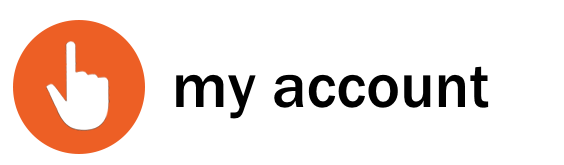
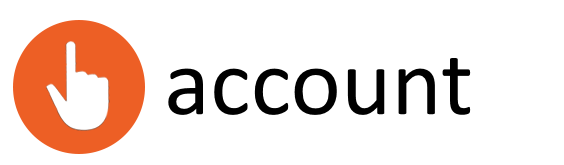
changed to account instead of login

Changed region(s): [[0.2713, 0.3333, 0.8741, 0.7273]]

diff --git a/server.js b/server.js
@@ -45,7 +45,6 @@ MongoClient.connect(url, function(err, database) {
 //this is our root route
 app.get('/', function(req, res) {
   //otherwise perfrom a search to return all the documents in the people collection
-  if(!req.session.loggedin){res.render('pages/flicktionary', {loggedIn: "notLoggedIn"})}
   res.render('pages/flicktionary')
 });
 
@@ -61,7 +60,8 @@ app.get('/mediaSeries', function(req, res) {
 
 //this is our login route, all it does is render the login.ejs page.
 app.get('/login', function(req, res) {
-  res.render('pages/login');
+  if(!req.session.loggedin){res.redirect('pages/login');return;}
+  res.render('pages/profile');
 });
 
 //this is our profile route, it takes in a username and uses that to search the database for a specific user
